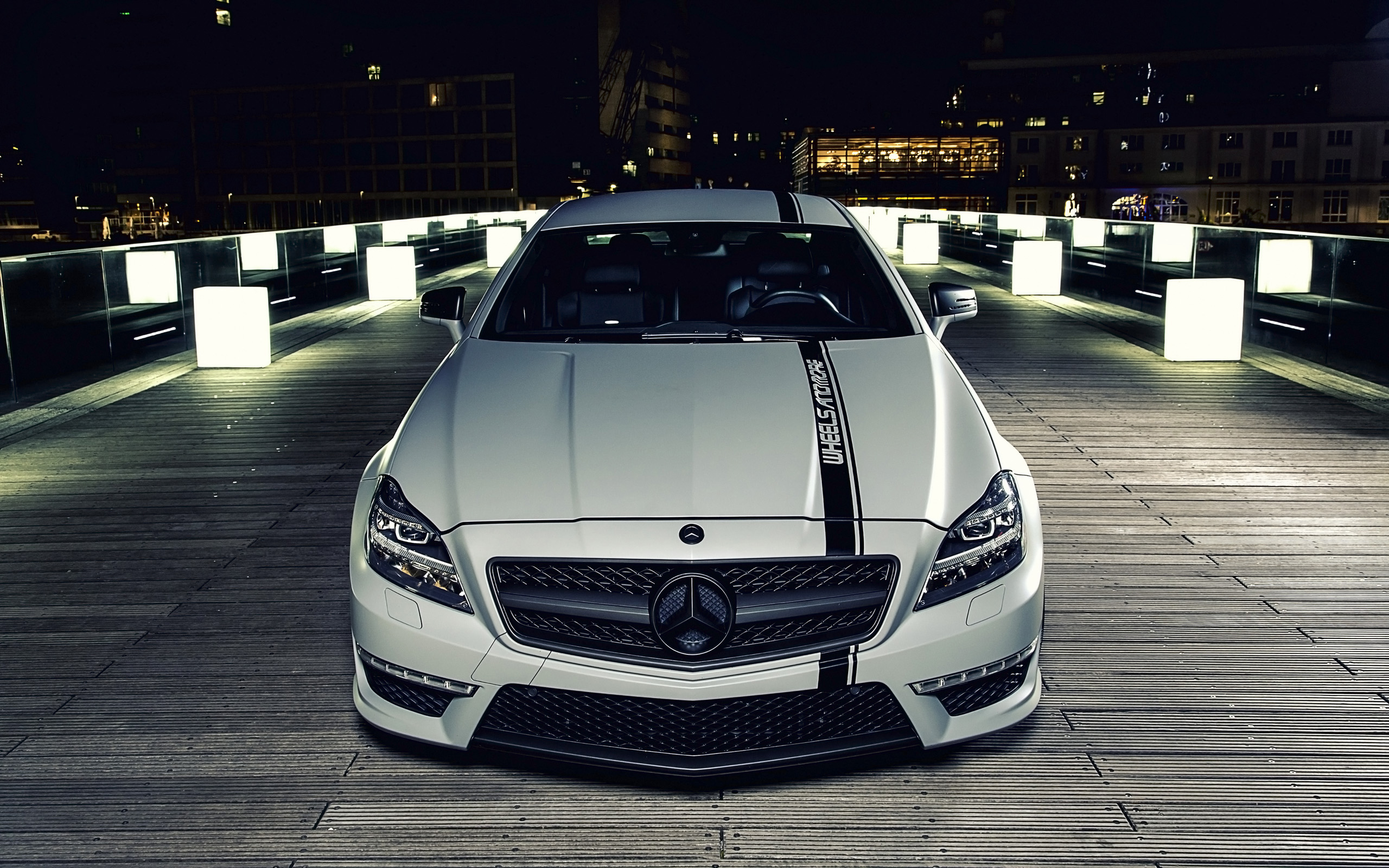
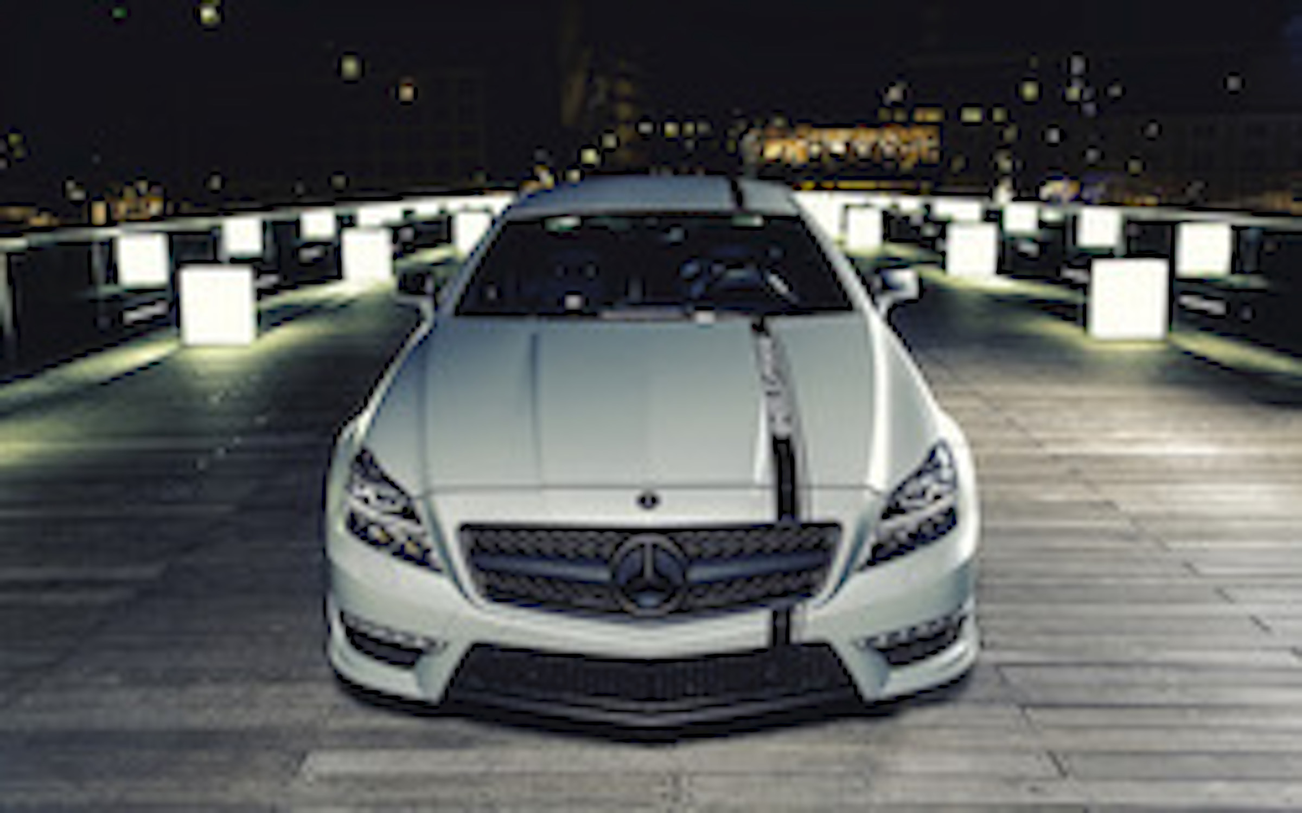
resize pictures

diff --git a/index.html b/index.html
@@ -34,7 +34,7 @@
         <section id="home" class="hero">
             <div class="title">
                 <h1>Matching The Car Brands</h1>
-                <p>Mercedes, BMW, Audi, Lexus, Porsche</p>
+                <p>Mercedes, BMW, Audi, Lexus, & Porsche</p>
             </div>
         </section>
             <div>
@@ -49,17 +49,30 @@
         <aside>Score: 0</aside>
         
         <section id="cars" class="cars container">
-            <p class="lead">Car Collection</p>
-            <div class="cars">
+            <p class="lead">Random Car Pictures</p>
+            <div class="AMG">
+                <img src="./image/AMG11.jpg" alt="AMG">
                 <img src="./image/AMG22.jpg" alt="AMG">
                 <img src="./image/AMG33.jpg" alt="AMG">
-                <img src="./image/AMG1.jpg" alt="AMG">
-                <img src="./image/AMG2.jpg" alt="AMG">
-                <img src="./image/AMG3.jpg" alt="AMG">
-                <img src="./image/AMG4.jpg" alt="AMG">
-                <img src="./image/AMG5.jpg" alt="AMG">
-                <img src="./image/AMG6.jpg" alt="AMG">
-                <img src="./image/AMG7.jpg" alt="AMG">
+                <img src="./image/AMG44.jpg" alt="AMG">
+                <img src="./image/AMG55.jpg" alt="AMG">
+                <img src="./image/porsche1.jpg" alt="Porsche">
+                <img src="./image/porsche2.jpg" alt="Porsche">
+                <img src="./image/porsche3.jpg" alt="Porsche">
+                <img src="./image/porsche4.jpg" alt="Porsche">
+                <img src="./image/bmw1.jpg" alt="BMW">
+                <img src="./image/bmw2.jpg" alt="BMW">
+                <img src="./image/bmw3.jpg" alt="BMW">
+                <img src="./image/bmw4.jpg" alt="BMW">
+                <img src="./image/audi1.jpg" alt="Audi">
+                <img src="./image/audi2.jpg" alt="Audi">
+                <img src="./image/audi3.jpg" alt="Audi">
+                <img src="./image/audi4.jpg" alt="Audi">
+                <img src="./image/lexus1.jpg" alt="Lexus">
+                <img src="./image/lexus2.jpg" alt="Lexus">
+                <img src="./image/lexus3.jpg" alt="Lexus">
+                <img src="./image/lexus4.jpg" alt="Lexus">
+
             </div>
         </section>
 

diff --git a/style/style.css b/style/style.css
@@ -32,7 +32,7 @@ header {
     z-index: 100;
 }
 .hero {
-    background: url('../image/AMG11.jpg') top center no-repeat;
+    background: url('../image/AMG111.jpg') top center no-repeat;
     background-size: cover;
     /* background-repeat: no-repeat; */
     width: 100%;
@@ -135,7 +135,7 @@ nav {
 }
 
 .lead {
-    font-family: serif;
+    font-family: 'Luckiest Guy', cursive;
     font-size: 40px;
     text-transform: uppercase;
     color: #fff;
@@ -153,23 +153,35 @@ nav {
 }
 
 /* 
-* Cars Collection
+* RandomCar Pics
 *****************************************************/
-.cars {
+.AMG {
     flex-direction: row;
     justify-content: space-between;
     flex-wrap: wrap;
 }
 
-.cars img {
+.AMG img {
+    /* height: 250px; */
     max-width: 250px;
-    
-    margin-bottom: 10px;
+    object-fit: scale-down;
+    overflow: hidden; 
+    margin-bottom: 5px;
     transition: transform 0.5s, opacity 0.5s;
     cursor: pointer;
 }
 
-.cars img:hover {
+/* .AMG img {
+    position: relative;
+    float: left;
+    width:  250px;
+    height: 250px;
+    background-position: 50% 50%;
+    background-repeat:   no-repeat;
+    background-size:     cover;
+} */
+
+.AMG img:hover {
     transform: scale(1.15);
     opacity: 1;
 }
